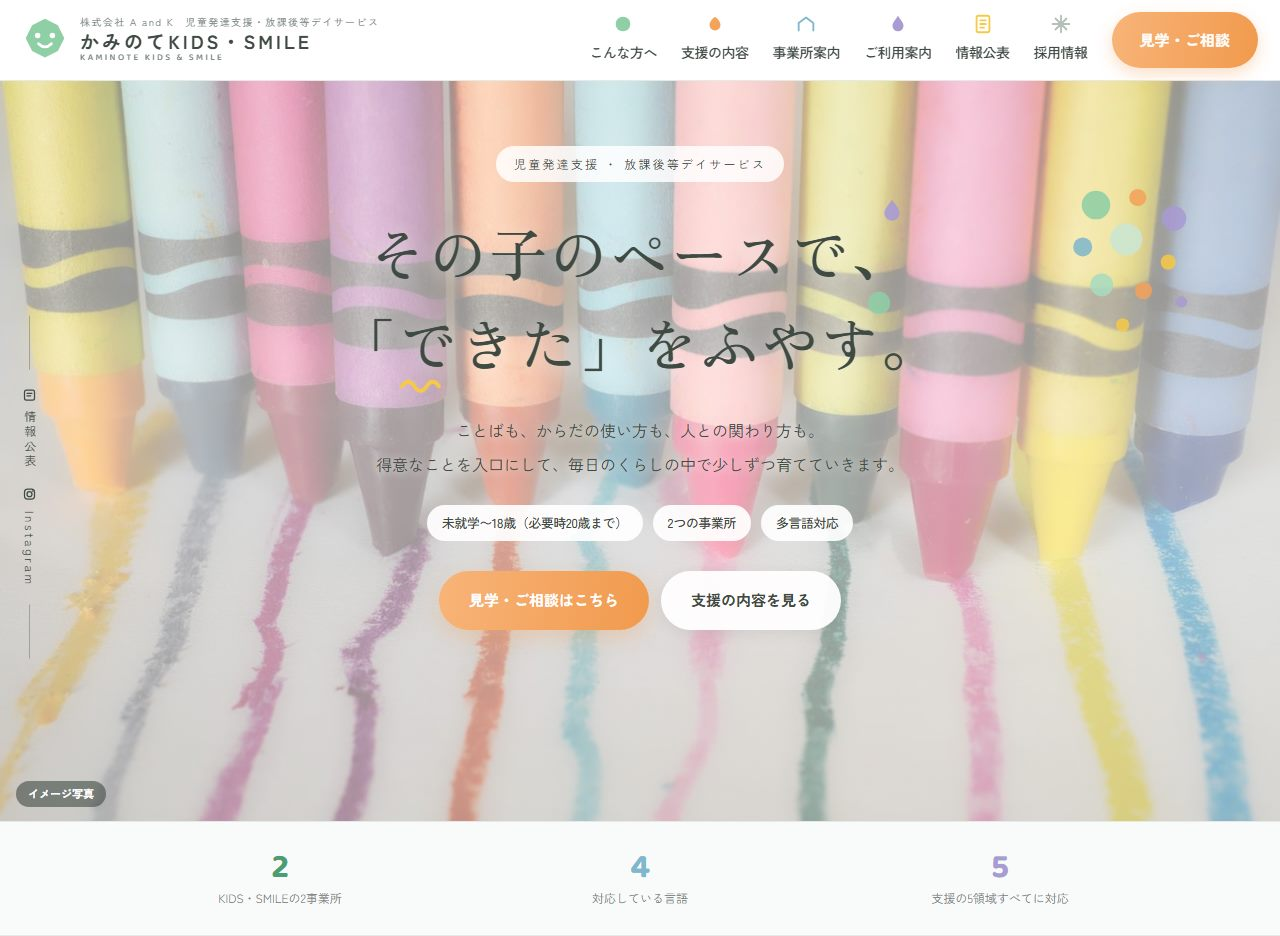
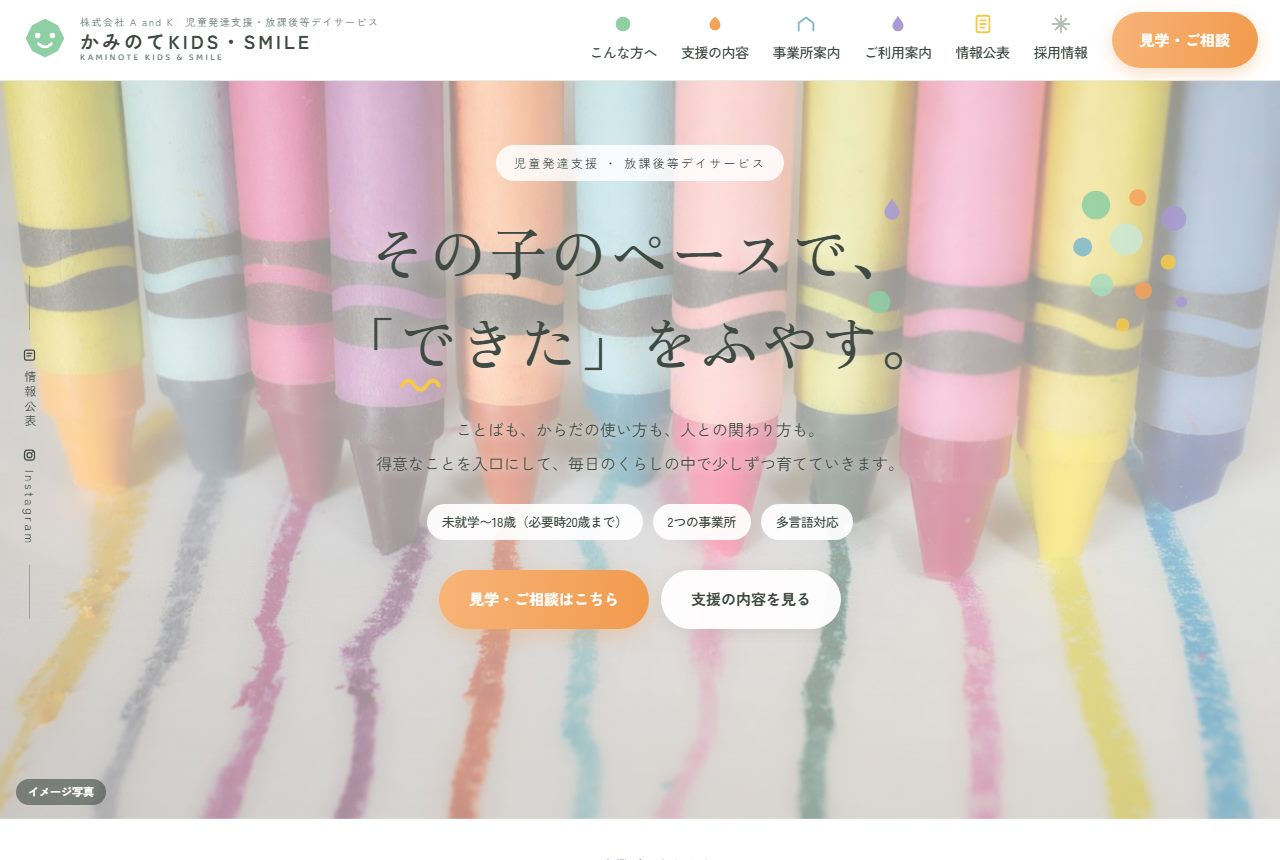
放課後等デイのキャプチャを、ロゴ帯が入った状態に更新する
案Bはヒーローが画面の高さいっぱいではないぶん、860pxだとロゴが
途中で切れるので、帯が収まる965pxで撮り、画像の高さ指定も合わせた。

Claude-Session: https://claude.ai/code/session_019yv8kcPFY1QPYKKQptFxud

diff --git a/design.html b/design.html
@@ -650,7 +650,7 @@
           <span class="mock-tone">やわらかい曲線</span>
         </div>
         <a class="shot" href="https://k-matsumoto527.github.io/kaminote-day-design/plan-b.html" target="_blank" rel="noopener">
-          <img src="img/preview-day-b.jpg" alt="放課後等デイサイト トップページ デザイン案B" width="1280" height="847" loading="lazy">
+          <img src="img/preview-day-b.jpg" alt="放課後等デイサイト トップページ デザイン案B" width="1280" height="965" loading="lazy">
         </a>
         <a class="open-btn" href="https://k-matsumoto527.github.io/kaminote-day-design/plan-b.html" target="_blank" rel="noopener">実物を見る</a>
         <div class="open-url">https://k-matsumoto527.github.io/kaminote-day-design/plan-b.html</div>

diff --git a/src/design-kaminote.html b/src/design-kaminote.html
@@ -627,7 +627,7 @@
           <span class="mock-tone">やわらかい曲線</span>
         </div>
         <a class="shot" href="https://k-matsumoto527.github.io/kaminote-day-design/plan-b.html" target="_blank" rel="noopener">
-          <img src="img/preview-day-b.jpg" alt="放課後等デイサイト トップページ デザイン案B" width="1280" height="847" loading="lazy">
+          <img src="img/preview-day-b.jpg" alt="放課後等デイサイト トップページ デザイン案B" width="1280" height="965" loading="lazy">
         </a>
         <a class="open-btn" href="https://k-matsumoto527.github.io/kaminote-day-design/plan-b.html" target="_blank" rel="noopener">実物を見る</a>
         <div class="open-url">https://k-matsumoto527.github.io/kaminote-day-design/plan-b.html</div>
